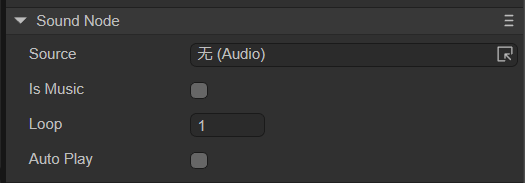
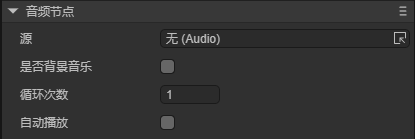
音频节点文档更新

diff --git a/2D/displayObject/SoundNode/readme.md b/2D/displayObject/SoundNode/readme.md
@@ -20,12 +20,12 @@
 
 下面分别对这些属性进行介绍：
 
-| 属性名称 | 属性说明                                                     |
-| -------- | ------------------------------------------------------------ |
-| Source   | 添加音频文件源                                               |
-| IsMusic  | 是否为背景音乐。勾选后，当前音频为背景音乐，如果有两个音频都勾选了IsMusic，则不能同时播放，只能播放一个。如果不勾选，当前音频文件可以与背景音乐、其它音频同时播放 |
-| Loop     | 循环播放的次数。设置为0，是无尽循环；设置为1，只播放一次     |
-| AutoPlay | 运行时，是否自动播放                                         |
+| 属性名称                 | 属性说明                                                     |
+| ------------------------ | ------------------------------------------------------------ |
+| 源 **Source**            | 添加音频文件源                                               |
+| 是否背景音乐 **IsMusic** | 是否为背景音乐。勾选后，当前音频为背景音乐，如果有两个音频都勾选了IsMusic，则不能同时播放，只能播放一个。如果不勾选，当前音频文件可以与背景音乐、其它音频同时播放 |
+| 循环次数 **Loop**        | 循环播放的次数。设置为0，是无尽循环；设置为1，只播放一次     |
+| 自动播放 **AutoPlay**    | 运行时，是否自动播放                                         |
 
 
 
